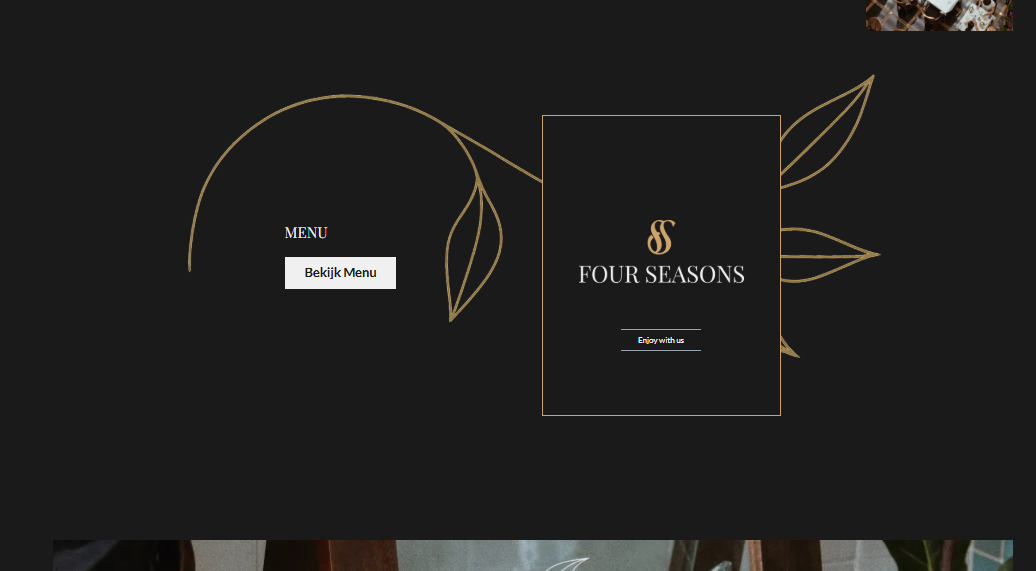
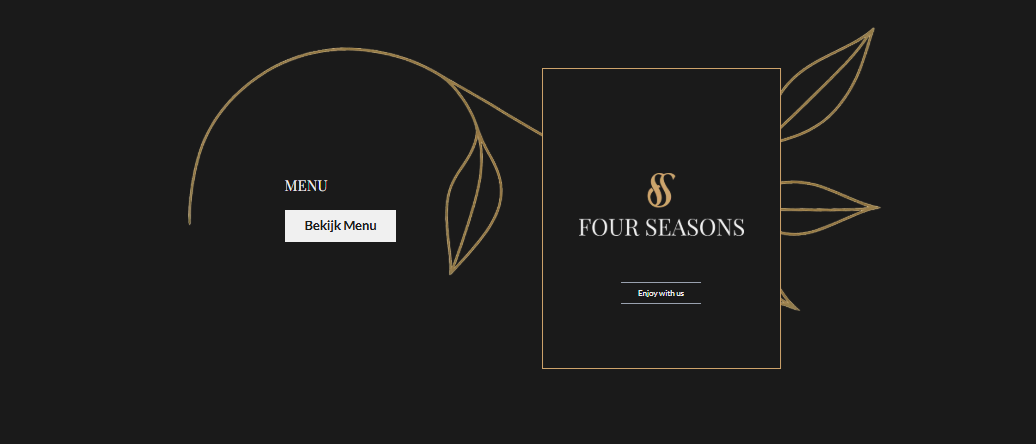
update page

diff --git a/src/app/restaurant/page.tsx b/src/app/restaurant/page.tsx
@@ -83,8 +83,17 @@ const FourSeasonsRestaurant = () => {
             keuken. Een platform dat zowel nieuwsgierigheid wekt als uitnodigt
             tot actie.
           </p>
-
-          <div className="mt-20 flex flex-col md:flex-row gap-12 md:p-10 mx-auto border overflow-hidden">
+          <div className="mb-8 mt-20">
+            <div className="w-full h-140 relative">
+              <Image
+                src={concept_5}
+                alt="Image 2"
+                fill
+                className="object-cover"
+              />
+            </div>
+          </div>
+          <div className="mt-20 flex flex-col md:flex-row gap-12 mx-auto overflow-hidden">
             <div className="relative w-140 h-30">
               <Image
                 src={concept_1}
@@ -119,16 +128,8 @@ const FourSeasonsRestaurant = () => {
             </div>
           </div>
 
-          <div className="mt-20 flex flex-col md:flex-row gap-12 md:p-10 mx-auto border">
-            <div className="relative w-full h-140">
-              <Image
-                src={concept_5}
-                alt="Image 1"
-                fill
-                className="object-cover"
-              />
-            </div>
-            <div className="relative w-full h-140">
+          <div className="mb-8 mt-20">
+            <div className="w-full h-140 relative">
               <Image
                 src={concept_6}
                 alt="Image 2"
